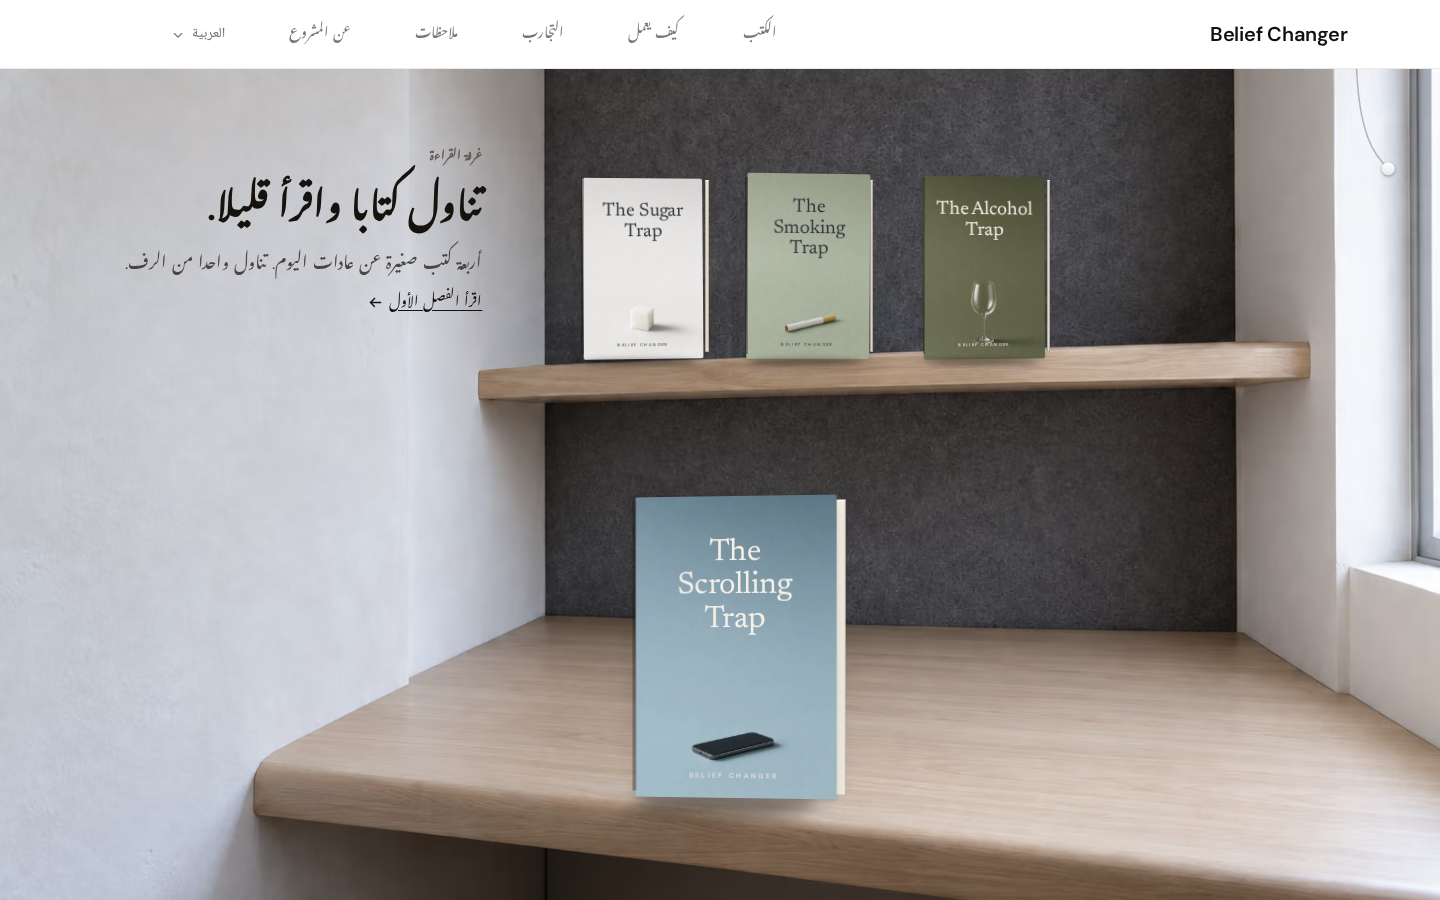
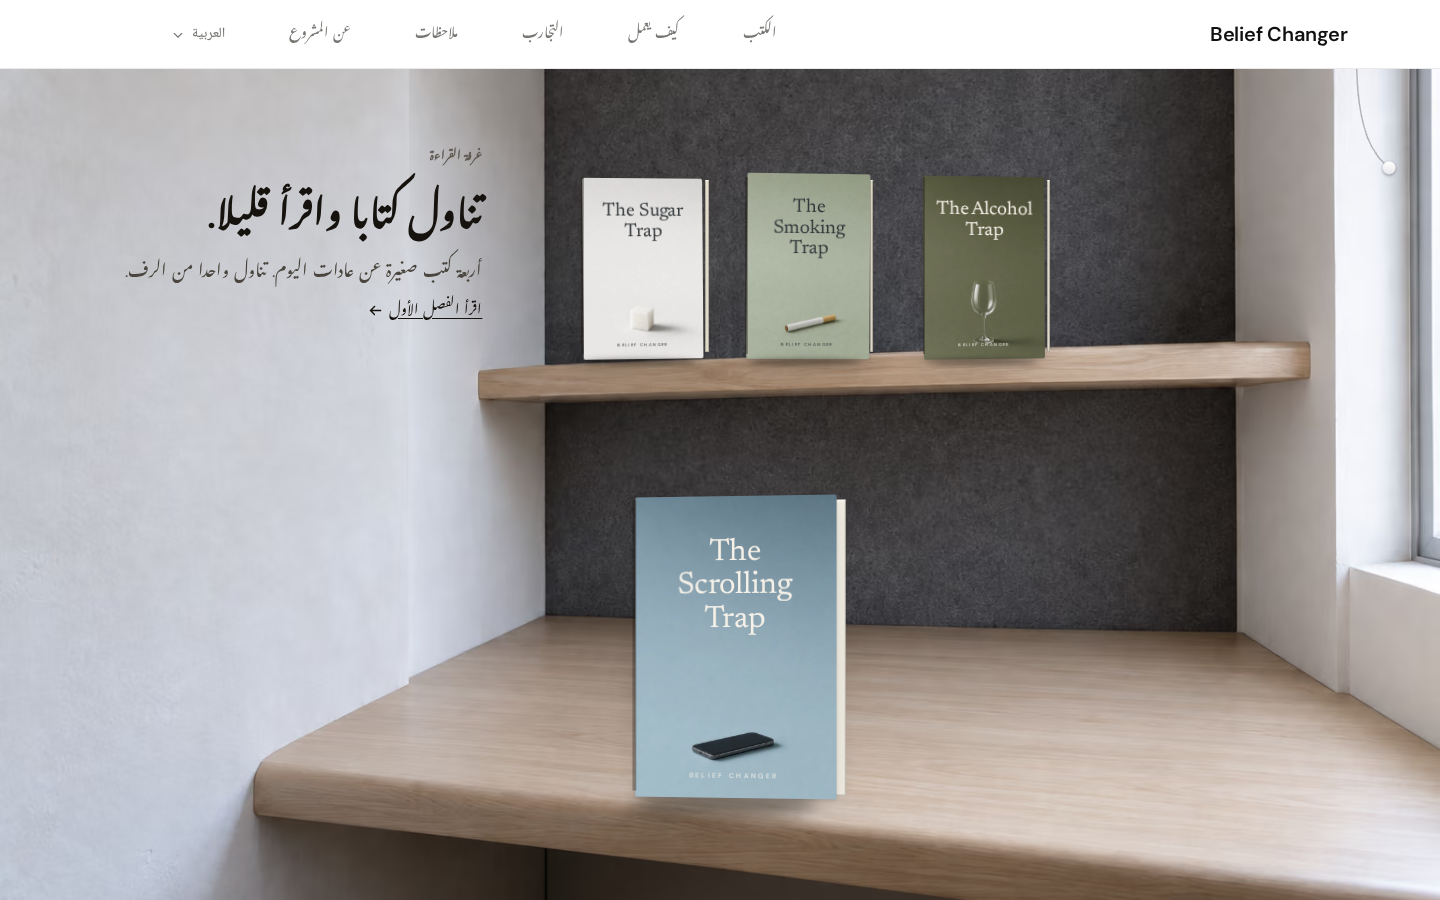
experiment: bank final living editorial reading room

Changed region(s): [[0.0938, 0.1867, 0.3438, 0.3733]]

diff --git a/site/src/components/home/ReadingRoomR11.tsx b/site/src/components/home/ReadingRoomR11.tsx
@@ -13,16 +13,26 @@ import { cn } from '~/lib/utils'
  * ReadingRoomR11 (Track B slice R11): one bounded mechanism on top of the R10
  * static baseline — shelf book pickup / desk set-down.
  *
- * Isolated to the /{locale}/reading-room-r11 route. R9 (homepage slice) and
- * R10 (static baseline + its route) are untouched; the static geometry, copy,
- * plate, registration and tokens below are copied verbatim from R10 so the
- * reduced-motion path renders byte/pixel-equivalent to R10.
+ * Rendered by ReadingRoomR13 on the homepage and on the isolated
+ * /{locale}/reading-room-r11 review route. R9 (earlier homepage slice) and
+ * R10 (static baseline + its route) are untouched as files; the static
+ * geometry, copy, plate, registration and tokens below are copied verbatim
+ * from R10 so the reduced-motion path renders byte/pixel-equivalent to R10.
  *
- * Mechanism: choosing a shelf book flies THAT shelf node (FLIP) from its ash
- * slot to the desk. The outgoing desk copy yields (fades down) while the
- * incoming travels; at commit the desk shows the incoming and the shelf shows
- * the outgoing. Exactly one physical node per title at every instant: no
- * clone, no duplicate cover, no vacancy placeholder, no dashed recess.
+ * Mechanism: choosing a shelf book flies THAT shelf button (FLIP) from its
+ * ash slot toward the desk. The outgoing desk copy yields (fades down) while
+ * the incoming travels; at commit the desk shows the incoming and the shelf
+ * shows the outgoing. Exactly one mounted node per title at every instant:
+ * no clone, no duplicate cover, no vacancy placeholder, no dashed recess.
+ *
+ * Identity, honestly scoped (final Track B wording): what is guaranteed is
+ * per-title single-mount continuity, NOT React DOM-node migration. The
+ * travelling shelf <button> animates to desk geometry, then unmounts at
+ * commit when the desk node (keyed by slug, `key={selected.slug}`) mounts
+ * the same title in one calm cut. Measurable and measured: every title
+ * mounted exactly once mid-transfer and at rest (see the capture harness
+ * singleNode/noDup probes), focus never drops to <body>, reduced-motion
+ * never creates a transfer object.
  *
  * Deterministic phase machine: idle -> lift -> carry -> settle -> idle.
  * LIFT 120ms (incoming breathes up 2px, carried shadow fades in, outgoing

diff --git a/site/src/components/home/ReadingRoomR13.tsx b/site/src/components/home/ReadingRoomR13.tsx
@@ -4,15 +4,23 @@ import type { Book } from '~/data/types'
 import type { Locale } from '~/i18n/config'
 
 /**
- * ReadingRoomR13 (Track B slice R13): the R11 same-node shelf-to-desk machine
- * with one physical-material CSS pass layered over it.
+ * ReadingRoomR13 (Track B final room): the R11 shelf-to-desk transfer
+ * machine with one physical-material CSS pass layered over it. This is the
+ * branch's actual homepage reading-room experience (mounted in
+ * `$locale/index.tsx` right after the trust strip); the isolated
+ * `reading-room-r13` route renders this same component for review.
  *
  * Zero behavioral delta: this wrapper owns no state, no timers, no refs. The
- * lift/carry/settle phase machine, the desired-target queue, the FLIP travel
- * of the shelf node itself, focus rescue and the reduced-motion instant cut
- * are all ReadingRoomR11 verbatim. The only R13 content is
+ * lift/carry/settle phase machine, the desired-target queue, the FLIP flight
+ * of the incoming shelf button, focus rescue and the reduced-motion instant
+ * cut are all ReadingRoomR11 verbatim. The only R13 content is
  * reading-room-r13.css (static overrides: pose, thickness, light-true
  * shadows, uneven occupancy). Additional JS over R11: this file (~0.4KB).
+ *
+ * Identity, honestly scoped: per-title single-mount continuity with a
+ * single-cut handoff at commit (see ReadingRoomR11 header), not DOM-node
+ * migration. Proven by the capture probes: each title mounted exactly once
+ * mid-transfer and at rest, no duplicate selected cover, focus kept.
  */
 export function ReadingRoomR13({ locale, books }: { locale: Locale; books: Book[] }) {
   return <ReadingRoomR11 locale={locale} books={books} />

diff --git a/site/src/components/home/reading-room-r11.css b/site/src/components/home/reading-room-r11.css
@@ -1,6 +1,7 @@
 /* ReadingRoomR11 — pickup / set-down on the R10 static baseline (Track B R11).
-   Bounded experiment, isolated to the reading-room-r11 route. R9 (homepage
-   slice) and R10 (static baseline + its route) are untouched.
+   Owns the transfer mechanism used by ReadingRoomR13 on the homepage and on
+   the reading-room-r11 review route. R9 (earlier homepage slice) and R10
+   (static baseline + its route) are untouched as files.
    Static geometry, plate, registration, copy placement and tokens below are
    copied verbatim from R10 so the reduced-motion path renders
    byte/pixel-equivalent to the R10 static state.
@@ -240,6 +241,8 @@
 
 [dir="rtl"] .reading-room-r11__title {
   line-height: 1.6;
+  /* Arabic eyebrow glyphs overhang their 12px line box; clear them. */
+  margin-top: 18px;
 }
 
 /* ---- Motion layer: the one mechanism. transform/opacity only, calm ease,
@@ -357,6 +360,7 @@
 
   [dir="rtl"] .reading-room-r11__title {
     line-height: 1.5;
+    margin-top: 14px;
   }
 }
 

diff --git a/site/src/routes/$locale/index.tsx b/site/src/routes/$locale/index.tsx
@@ -11,7 +11,7 @@ import { HomeBeats } from '~/components/home/HomeBeats'
 import { LibrarySection } from '~/components/home/LibrarySection'
 import { Marquee } from '~/components/home/Marquee'
 import { LivingLibrary } from '~/components/home/LivingLibrary'
-import { ReadingRoom } from '~/components/home/ReadingRoom'
+import { ReadingRoomR13 } from '~/components/home/ReadingRoomR13'
 
 /**
  * Homepage (v2). The story in five beats, plainly told (proposal 01-home):
@@ -62,7 +62,7 @@ function HomePage() {
     <>
       <Hero locale={activeLocale} t={t} shelfBooks={shelfBooks} />
       <TrustStrip t={t} />
-      <ReadingRoom locale={activeLocale} books={shelfBooks} />
+      <ReadingRoomR13 locale={activeLocale} books={shelfBooks} />
       <HomeBeats locale={activeLocale} t={t} />
       <LibrarySection locale={activeLocale} t={t} books={books} />
       <Marquee t={t} />

diff --git a/site/src/routes/$locale/reading-room-r13.tsx b/site/src/routes/$locale/reading-room-r13.tsx
@@ -8,10 +8,11 @@ import { ReadingRoomR13 } from '~/components/home/ReadingRoomR13'
  * Reading-room R13 spike route (Track B, bounded experiment).
  *
  * Isolation: this page renders NOTHING but the R13 room stage (the R11
- * same-node machine + the R13 material CSS layer). No hero, no trust strip,
+ * transfer machine + the R13 material CSS layer). No hero, no trust strip,
  * no beats, no library grid, no marquee, no banded sections of any kind, so
- * the room plate starts immediately below the site header. The homepage R9
- * slice, the R10 route and the R11 route are untouched by this route.
+ * the room plate starts immediately below the site header. This is the same
+ * component the homepage mounts after its trust strip; the R9/R10/R11 files
+ * are untouched by this route.
  */
 export const Route = createFileRoute('/$locale/reading-room-r13')({
   head: () => ({

diff --git a/site/src/components/home/reading-room-r13.css b/site/src/components/home/reading-room-r13.css
@@ -1,7 +1,8 @@
-/* ReadingRoomR13 — one physical-material pass over the R11 same-node machine
-   (Track B R13). Bounded experiment, isolated to the reading-room-r13 route.
-   R9 (homepage slice), R10 (static baseline + its route) and R11 (transfer
-   mechanism + its route) are untouched.
+/* ReadingRoomR13 — one physical-material pass over the R11 transfer machine
+   (Track B final room). Applies wherever ReadingRoomR13 mounts: the homepage
+   (after the trust strip) and the isolated reading-room-r13 review route.
+   R9 (earlier homepage slice), R10 (static baseline + its route) and R11
+   (transfer mechanism + its route) are untouched as files.
 
    WHAT THIS FILE DOES (and nothing else):
    1. Shelf pose: sub-degree leans + tiny fore-shortening on the INNER cover

diff --git a/TRACK-B-FINAL-RESULT.md b/TRACK-B-FINAL-RESULT.md
@@ -1,0 +1,127 @@
+# Track B Final Result — bank R13 after the R14 visual KILL
+
+Branch: `experiment/living-editorial-atlas` · Work dir: `/tmp/bc-site-track-b` · Date: 2026-09-19
+**Verdict: PASS** — the completed Track B branch banks R13 as the visible homepage
+reading-room experience. The final experiment branch is intended to be committed and pushed for review; it is not merged or deployed.
+
+## Decision in one paragraph
+
+The R14 Images 2.5 experiment produced `b-r14-candidate-1.png` and
+`b-r14-master-desktop.png` (plus `b-r14-mobile.png`); an independent visual gate
+KILLED both — furniture/showroom read, disconnected table/shelf, centered staged
+chair, worse book hierarchy. Nothing was generated again and no R14 plate ships in
+the visible site. The final visible version intentionally banks the strongest proven
+direction: the R11 shelf-to-desk transfer machine plus the R13 material-continuity
+layer, now mounted as this branch's actual homepage reading-room experience
+(immediately after the trust strip), replacing the earlier generic R9 insertion
+rather than duplicating it. Provenance:
+`docs/experiments/2026-09-15-three-track/B-R14-IMAGE-PROVENANCE.md`.
+
+## What changed (final diff scope)
+
+| File | Change |
+| ---- | ------ |
+| `site/src/routes/$locale/index.tsx` | Homepage mounts `<ReadingRoomR13>` after `<TrustStrip>`; generic `<ReadingRoom>` (R9) insertion removed, not duplicated. Hero/Orbit and all downstream sections preserved. |
+| `site/src/components/home/ReadingRoomR11.tsx` | Header comment corrected to the honest identity scope (below); R11-route paragraph updated (machine now also serves the homepage via R13). No behavioral change. |
+| `site/src/components/home/ReadingRoomR13.tsx` | Header documents final homepage role + honest identity scope. No behavioral change. |
+| `site/src/components/home/reading-room-r11.css` | **The one implementation fix:** Arabic eyebrow/title glyph collision — `[dir="rtl"]` title `margin-top` 10px → 18px desktop, added 14px in the ≤640px block. Nothing else touched. |
+| `site/src/components/home/reading-room-r13.css` | Header updated (R13 applies on homepage + lab route; R9/R10/R11 preserved as files). No rule change. |
+| `site/src/routes/$locale/reading-room-r13.tsx` | Route comment updated (same component as homepage). No behavioral change. |
+| `site/tests/reading-room.test.mjs` | Homepage test now asserts R13-after-trust-strip order and no R9/R10/R11 duplication. |
+| `site/tests/reading-room-r11.test.mjs` | Slice-preservation test updated for final wiring; transfer test renamed/commented to the honest identity scope. No assertion weakened. |
+| `site/tests/reading-room-r13.test.mjs` | Isolation test now asserts lab-route purity AND homepage mounting; machine-reuse test renamed off "same-node". No assertion weakened. |
+| `docs/experiments/2026-09-15-three-track/B-R14-IMAGE-PROVENANCE.md` | New: hashes/dimensions, rejection fact, Images 2.5 attribution disclosure. |
+| `docs/experiments/2026-09-15-three-track/rejected-r14-plates/` | Quarantine location for the three killed PNGs, byte-identical (hashes verified before/after move). Zero `b-r14*` files remain under `site/public/site/`. |
+| `r13-captures/` | Refreshed against the final build (isolated route). |
+| `final-home/` | New: full homepage capture matrix + scrolled room shots (evidence, untracked). |
+
+No new interface chrome, no new animation system, no new runtime dependency, no
+cover/plate asset touched, no site copy changed (one CSS margin value excepted).
+
+## Identity — the honest guarantee and what proves it
+
+Prior wording ("SAME-DOM-NODE shelf→desk transfer") overstated the mechanism and
+has been corrected in code comments, tests, and here. The true guarantee is
+**per-title single-mount continuity with a single-cut handoff**: the incoming shelf
+`<button>` FLIPs to desk geometry, then unmounts at commit while the desk node
+(`key={selected.slug}`) mounts the same title. React DOM-node identity is NOT
+preserved across the cut; title identity is. Proven, not claimed:
+
+- Mid-transfer probe (homepage AND isolated route): 4 titles mounted, each count
+  exactly 1 (`distinct=4, total=4`), `flying=1`, desk swaps to the clicked title,
+  0 console/page errors.
+- Rapid-selection drain: settles on the last target, `noDup=true`, `flying=0`.
+- Rested states: shelf holds the 3 non-selected titles, desk holds the selected
+  one — every capture inspected by eye, no duplicate selected cover anywhere.
+
+## Measured evidence (prod bridge, real bundle, 2026-09-19)
+
+Unit tests: **73/73 pass** · Typecheck: clean · Production build: clean.
+
+Isolated `en/reading-room-r13` route (refreshed `r13-captures/`):
+
+| Shot | LCP | Notes |
+| ---- | --- | ----- |
+| desktop 1440 light | 180 ms | headlineInside=1, readInside=1, overflow=0, deskRatio=1.65 |
+| desktop 1024 | 60 ms | deskRatio=1.59, shelfMin=90px |
+| desktop dark | 64 ms | identical plate/staging, chrome-only dark |
+| mobile 390 / 360 | 72 / 68 ms | deskRatio 1.98/1.96, portrait crop, no cards |
+| Arabic RTL | 100 ms | room unmirrored, read → `/ar/books/…` |
+| reduced motion | 56 ms | static rest state |
+| transfer | 645 ms (≤700) | swapped, singleNode, **CLS=0**, 0 errors |
+| keyboard | — | focus ring 3px solid, swapped, focusKept=BUTTON |
+| rapid | — | settledOnLast, noDup, 0 errors |
+
+Homepage `en/` (`final-home/`, same machine, room at stage-top 1901/1680/1794px —
+immediately after the trust strip, fullpage shot confirms Hero → beats →
+TrustStrip → Room order):
+
+- Geometry identical to the isolated route in every context (deskRatio 1.65
+  desktop, 1.96–1.98 mobile, shelf 122px, desk 201px, overflow=0, 0 errors).
+- Warmed transfer click→settled: **631 ms** homepage / 648 ms isolated (both ≤700;
+  one cold-load matrix sample read 2262 ms under swiftshader contention — machine
+  timers are fixed 120+320+160 ms, confirmed artifact, not implementation).
+- CLS=0, LCP 76–160 ms across homepage contexts, single Read action
+  (`/en/books/<slug>/read/1`, exactly one `/read/1` link in the slice),
+  focus rescue verified, rapid drain verified.
+- Dark: plate and covers byte-identical presentation; copy stays dark-on-plaster
+  by design. RTL: camera-fixed, arrow flips via `dir-flip`, read retargets to
+  `/ar/`. Reduced motion: instant honest rest endpoint on both surfaces.
+- Mobile 390 room: same world portrait crop, physical shelf + desk, no card stack.
+
+## The one bug found and fixed
+
+Arabic eyebrow/title glyph collision in the room copy (eyebrow glyphs touched the
+title's first line; English clean). Fix: RTL title `margin-top` 18px desktop /
+14px mobile in `reading-room-r11.css`. Verified: box gap 18px desktop / 14px
+mobile, crop-zoomed captures show clean separation, tests/build still green.
+No re-authoring of the room.
+
+## Kill-gate scoreboard (final)
+
+Selected-cover duplication PASS · continuity PASS (honest scope above) ·
+uneven shelf PASS (eyeballed AFTER) · desk reads as physical object PASS
+(perspective seat, fore-edge block, spine shade, contact shadow) · contact
+shadows grounded PASS · focus kept PASS · reduced-motion static PASS · RTL
+unmirrored PASS (plus the one collision fixed) · dark correct PASS · mobile
+physical PASS · one primary read action PASS · no fake testimonials/metrics
+PASS (room copy carries none) · JS budget PASS (R13 layer still 1335 B gzip
+over R11; no new deps) · CLS=0 PASS · LCP ≤180 ms PASS · console errors 0 PASS.
+
+## Environment notes (for reproducibility, not part of the diff)
+
+- `/tmp` user quota was exhausted on arrival (npm extractions wrote ~14k empty
+  files). Moved my own 13 GB stale `opencode.db.pre-reasoning-recovery-*` backup
+  to `/home/kab/.cache/`, then installed through a git-ignored
+  `site/node_modules` symlink → `/home/kab/.cache/bc-track-b-nm` (removed after
+  verification; repo arrived with no `node_modules` and leaves with none).
+- `three@0.180.0` initially extracted empty (quota fallout); repaired via
+  selective registry-tarball extraction (package.json/build/src). Six upstream
+  stub files remain 0 bytes by design (e.g. `Three.Legacy.js`); suite proves
+  them harmless. No source file was stubbed or vendored by hand.
+- Prod bridge served on :3120; captures via Playwright + swiftshader.
+
+## PASS/KILL verdict for the completed Track B branch: PASS
+
+Bank R13 on the homepage. R14 stays dead and quarantined. One honest bug fixed,
+nothing re-authored, gates green, evidence on disk.

diff --git a/docs/experiments/2026-09-15-three-track/B-R14-IMAGE-PROVENANCE.md b/docs/experiments/2026-09-15-three-track/B-R14-IMAGE-PROVENANCE.md
@@ -1,0 +1,47 @@
+# B-R14 image provenance — Images 2.5 generation attempt (REJECTED)
+
+Date: 2026-09-15 · Track B: Living Reading Room · Branch: `experiment/living-editorial-atlas`
+
+## What was attempted
+
+The R14 experiment tried to re-author the reading room around a credible
+reader position (chair/table relationship, book orientation derived from a
+seat) using generated room plates. Two desktop plates and one mobile plate
+were produced:
+
+- `b-r14-candidate-1.png`
+- `b-r14-master-desktop.png`
+- `b-r14-mobile.png`
+
+## Verdict: KILLED by the independent visual gate — do not ship
+
+Both desktop plates were rejected, and the mobile plate with them. At a
+three-second glance they read as furniture/showroom: a disconnected
+table/shelf relationship, a centered staged chair, and worse book hierarchy
+than the banked R13 room. The direction was killed, not iterated. No R14
+plate is referenced by any route, component, test, or capture script, and no
+R14 file remains under `site/public/site/`.
+
+## Preserved bytes (exact, after quarantine move)
+
+The rejected plates are preserved byte-identical for the record under
+`rejected-r14-plates/` next to this document. Hashes verified identical
+before and after the move:
+
+| File | SHA-256 | Bytes | Dimensions |
+| ---- | ------- | ----- | ---------- |
[3 lines of base64/hex data omitted]
+
+Dimensions via ImageMagick `identify`; hashes via `sha256sum`.
+
+## Model-attribution disclosure
+
+"OpenAI documentation states Images 2.5 is available in Codex. The Codex built-in image_gen tool did not expose the internal image-model variant for these calls, so the work uses the current Codex Images 2.5 path without independently verifiable Flare/Sunburst attribution."
+
+## Consequence
+
+Track B banks R13 (R11 transfer machine + R13 material continuity) as the
+visible homepage reading-room experience. See `TRACK-B-FINAL-RESULT.md` at
+the repo root. No new image generation was run after the kill.
